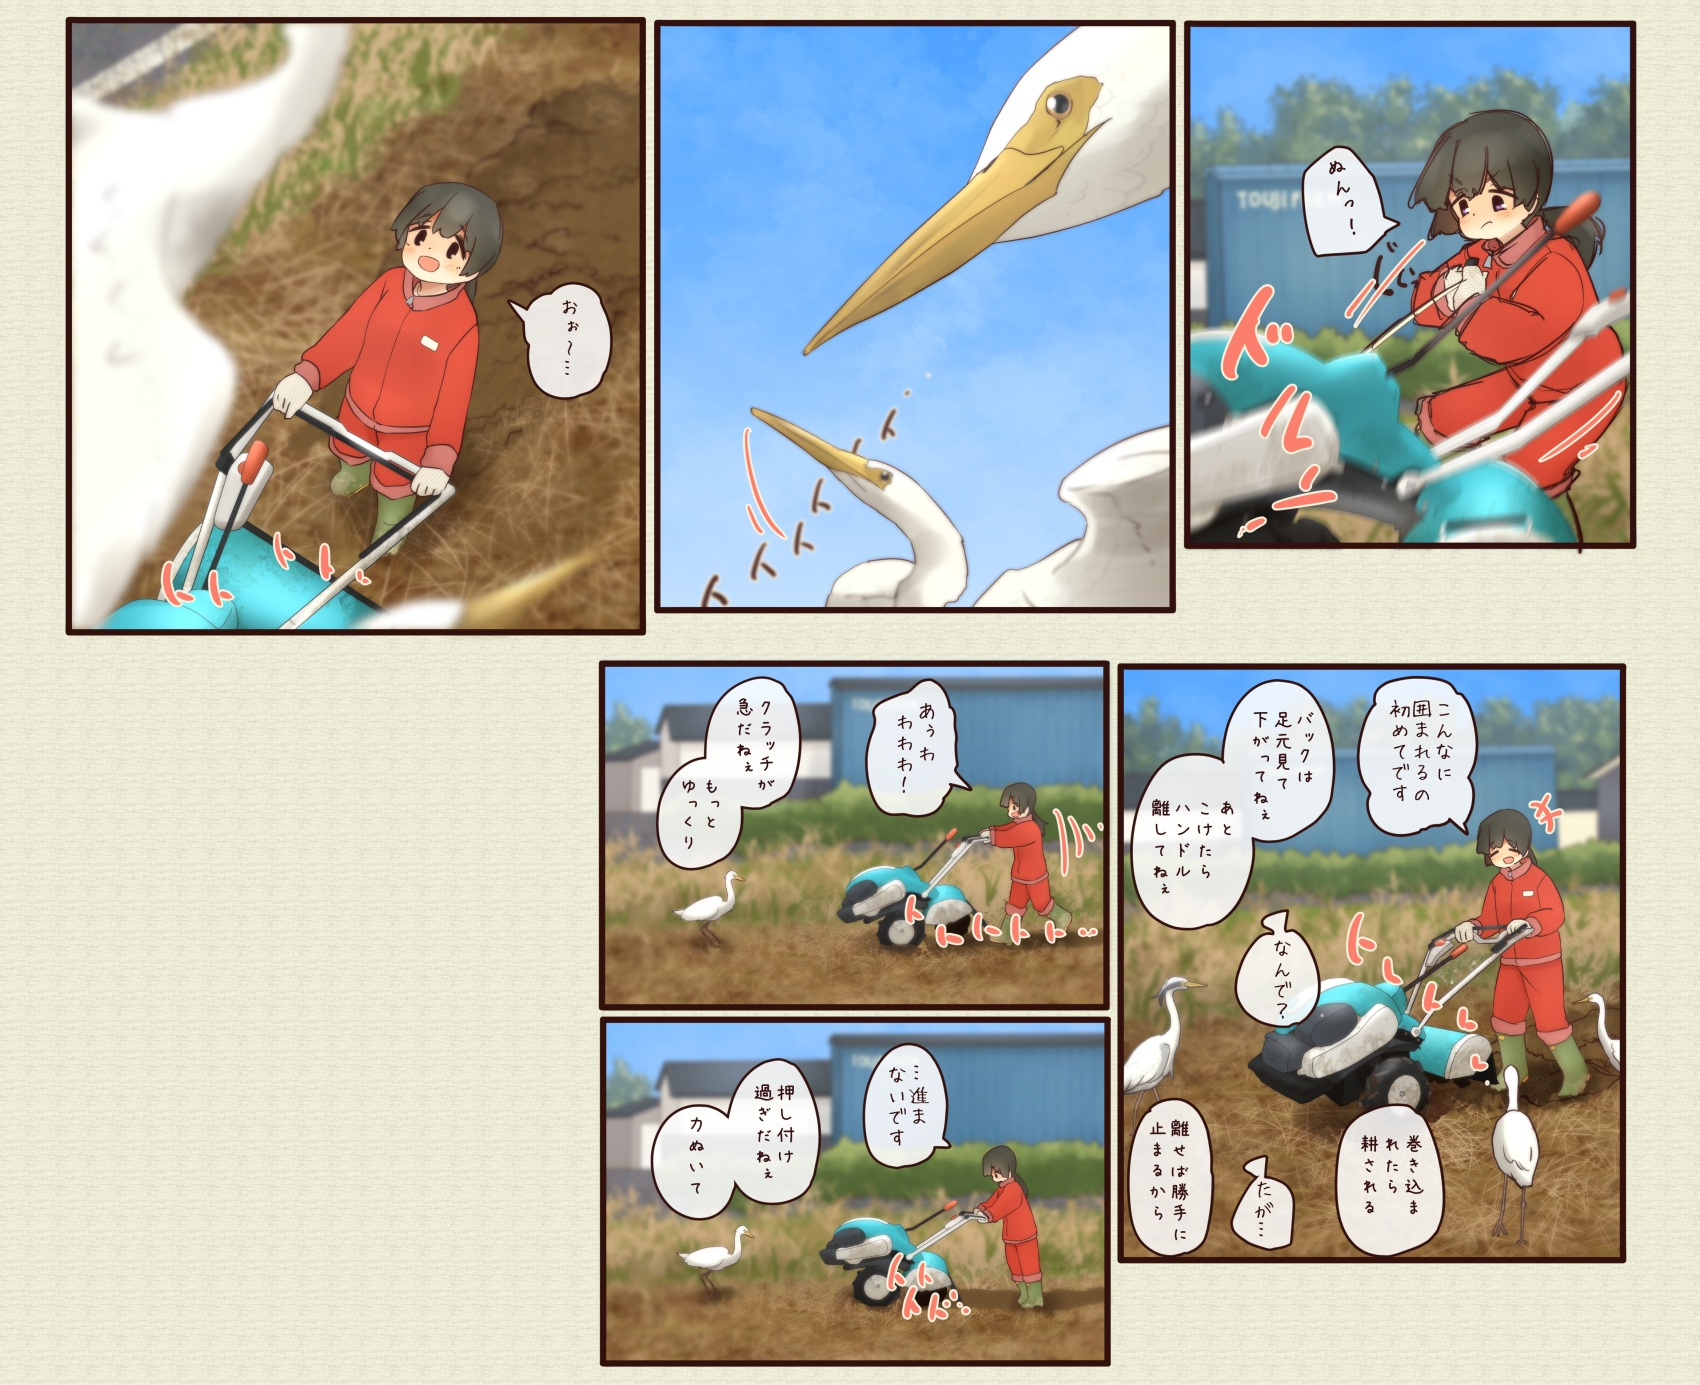
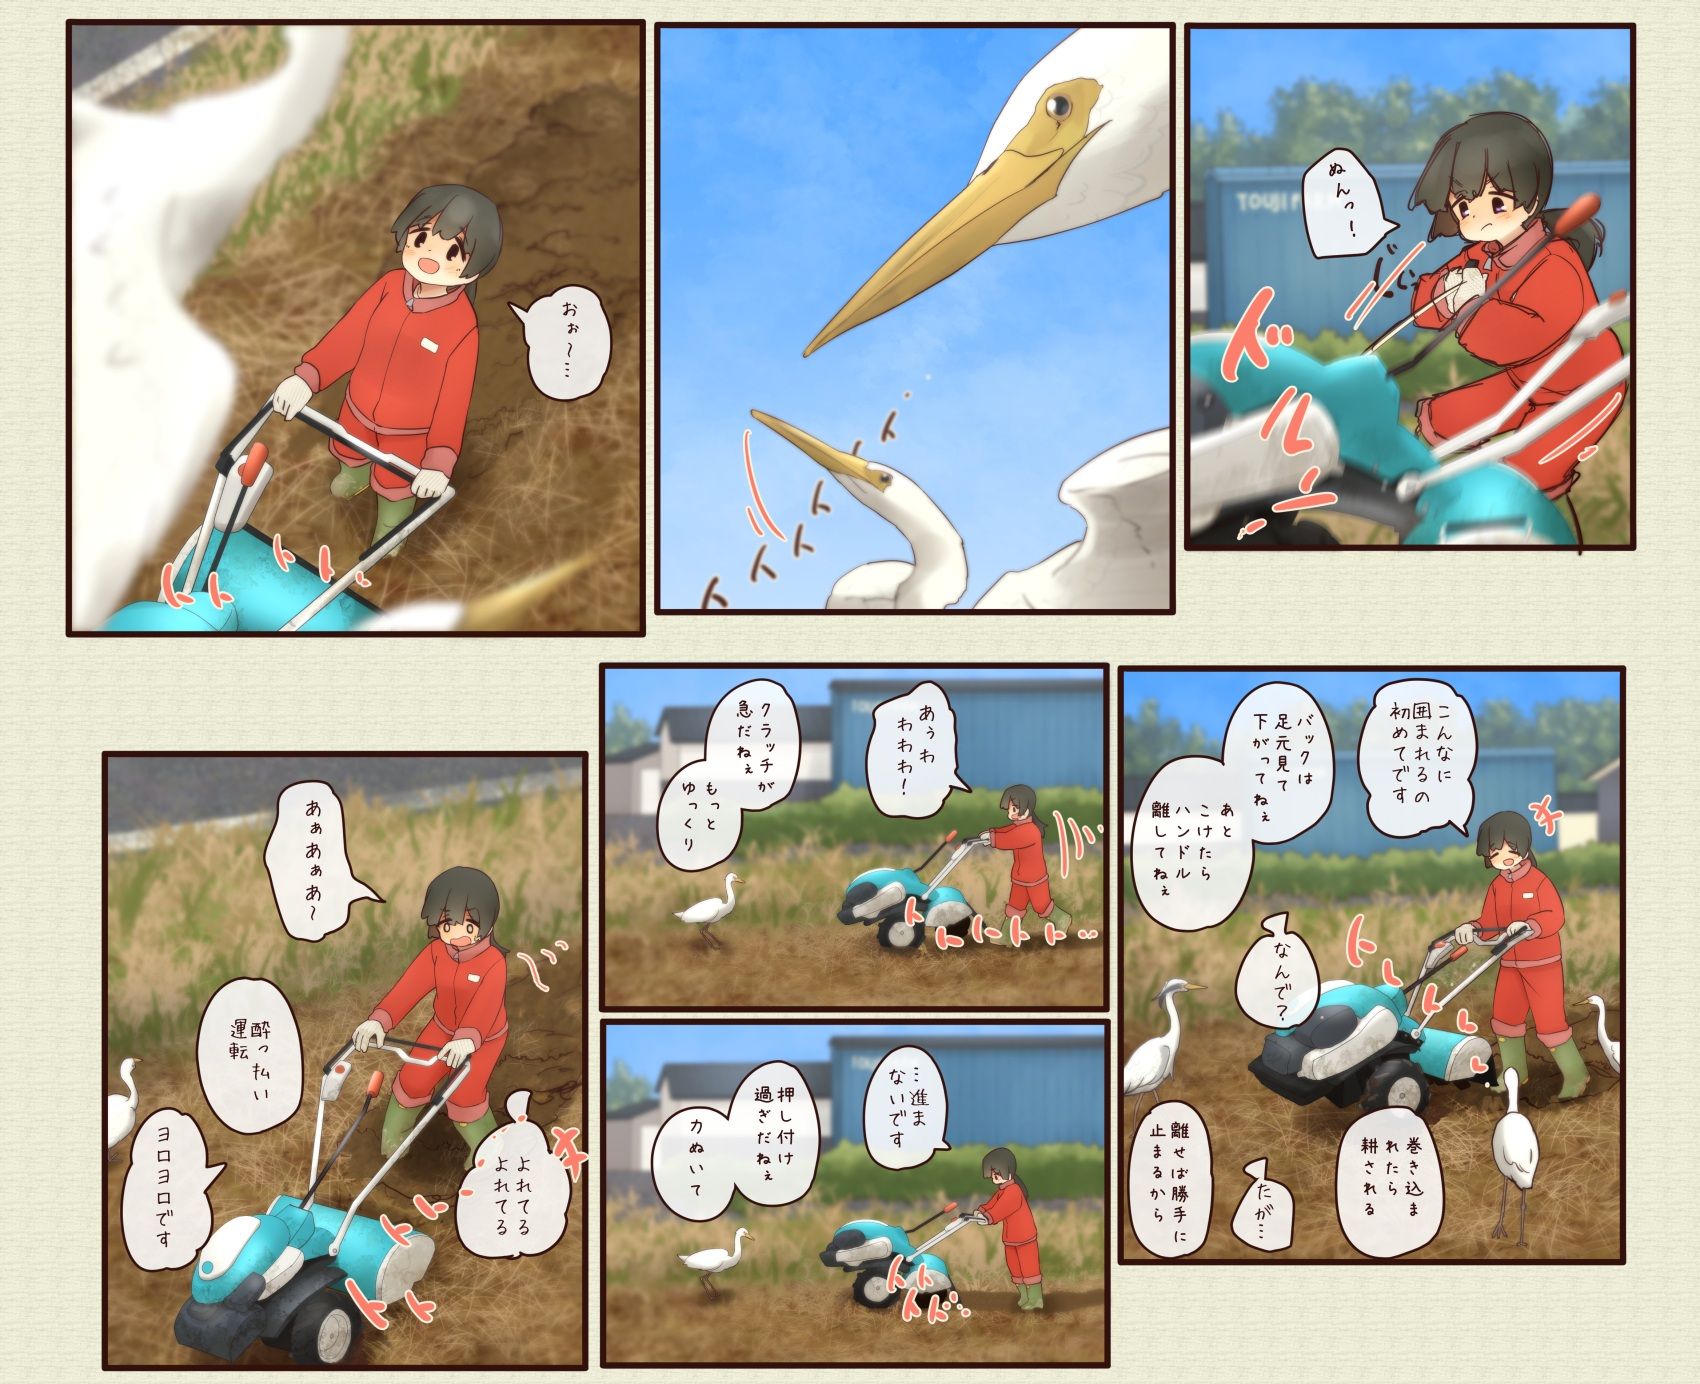
mops: find new update.

diff --git a/4komaData.js b/4komaData.js
@@ -3572,6 +3572,7 @@ pageData =
     "ImagesUrl": [
       "https://mo4koma.iranika.info/4koma/ja/390-1.jpg",
       "https://mo4koma.iranika.info/4koma/ja/390-2.jpg",
+      "https://mo4koma.iranika.info/4koma/ja/390-3.jpg",
       "https://mo4koma.iranika.info/4koma/ja/sp.jpg"
     ],
     "Index": 390

diff --git a/4komaDataMin.js b/4komaDataMin.js
@@ -3572,6 +3572,7 @@ pageData =
     "ImagesUrl": [
       "/390-1.jpg",
       "/390-2.jpg",
+      "/390-3.jpg",
       "/sp.jpg"
     ],
     "Index": 390